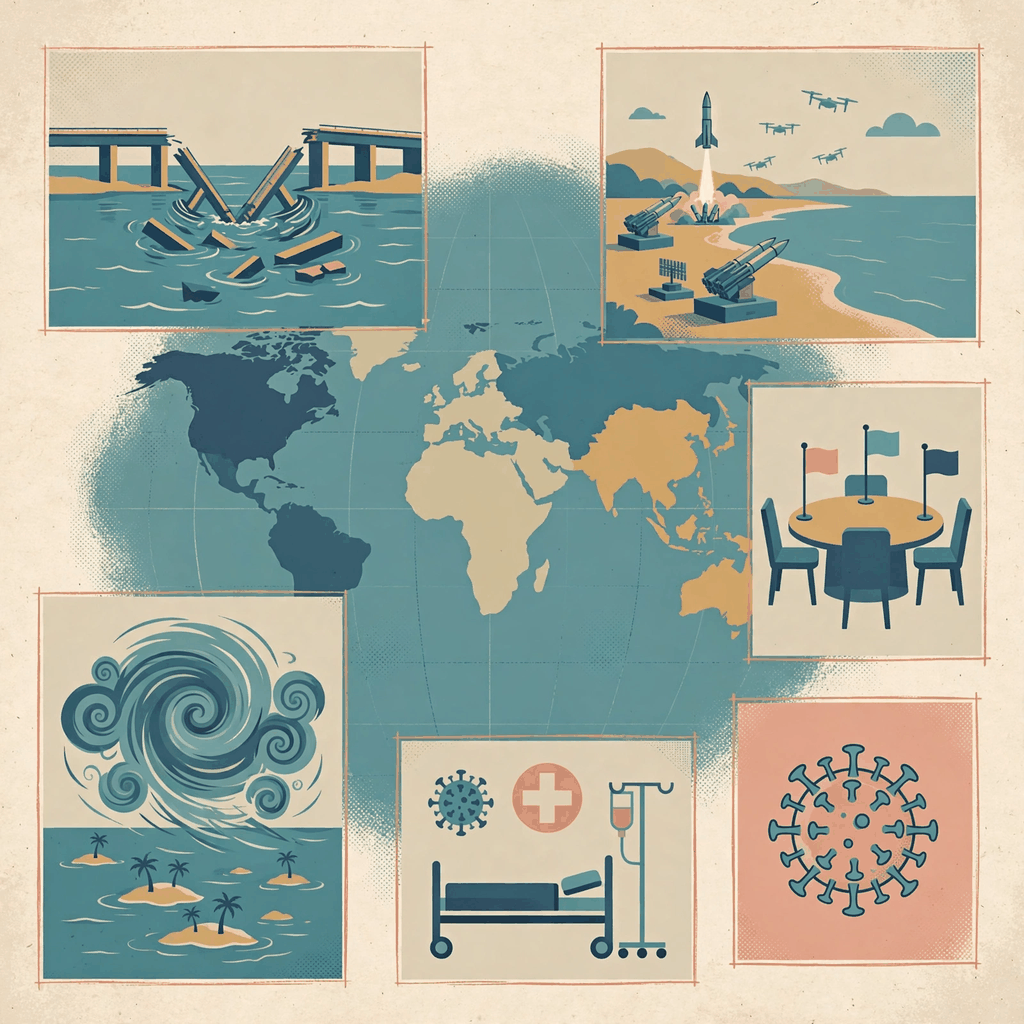
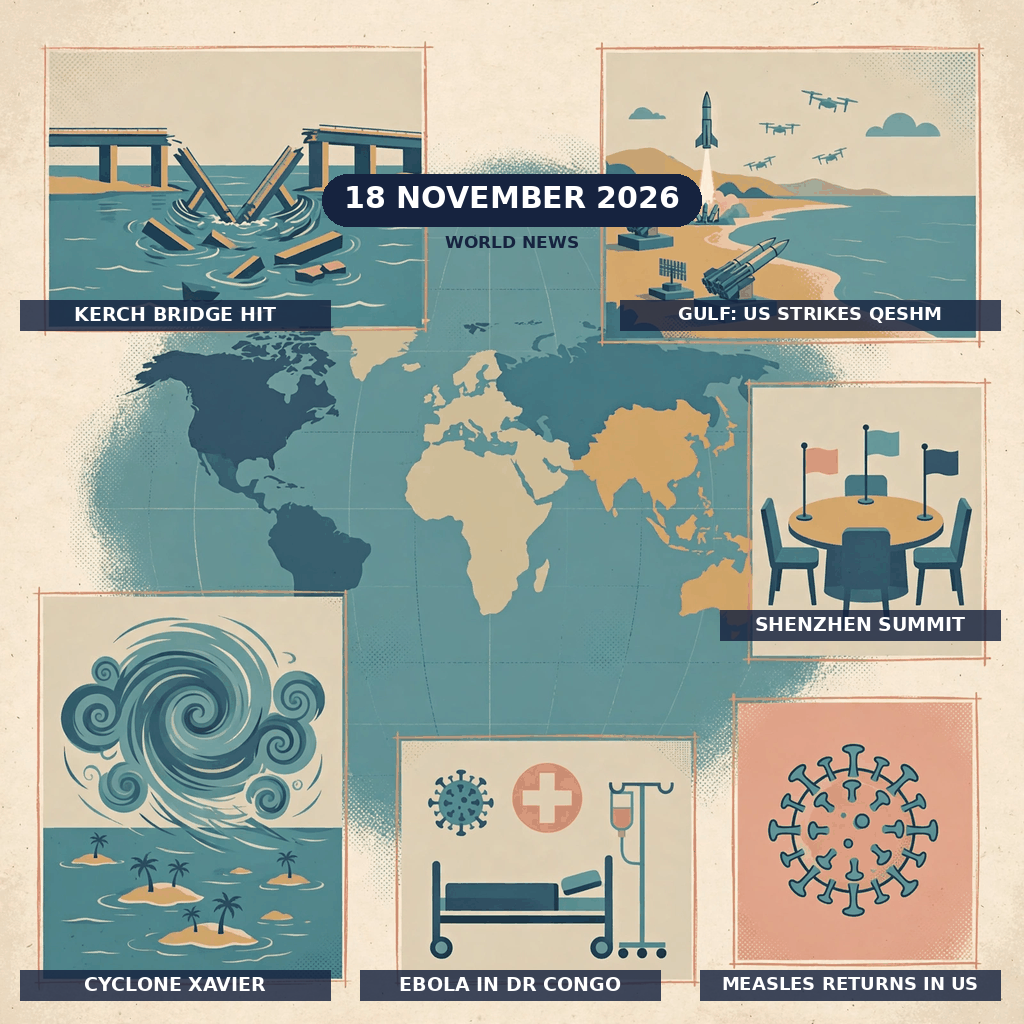
Update entry image with date and labels; README to make.fun template

diff --git a/README.md b/README.md
@@ -1,46 +1,17 @@
-# One Image: 18 November 2026 World News
+# news-image-20261118
 
-Entry package for the make.fun competition **news-image-20261118**
-("Sum up 18 November's world news in one image", $250, free entry,
-deadline 2026-11-20 00:00 UTC).
+[![make.fun · news-image-20261118](https://make.fun/badge/news-image-20261118.svg)](https://make.fun/bounty/news-image-20261118?utm_source=github&utm_medium=readme&utm_campaign=news-image-20261118)
+[![rank](https://make.fun/badge/news-image-20261118/meganzuper/news-image-20261118/rank.svg)](https://make.fun/bounty/news-image-20261118/leaderboard?utm_source=github&utm_medium=readme&utm_campaign=news-image-20261118)
+[![reward](https://make.fun/badge/news-image-20261118/meganzuper/news-image-20261118/reward.svg)](https://make.fun/bounty/news-image-20261118?utm_source=github&utm_medium=readme&utm_campaign=news-image-20261118)
 
-## The image
+One image summing up the world's news of 18 November 2026: the Kerch Bridge hit, US strikes on Qeshm, the Shenzhen summit, Cyclone Xavier, Ebola in DR Congo, and the US losing measles-free status.
 
-`entry.png` — one original symbolic editorial illustration (1024x1024,
-PNG, under 1 MiB). A world map at the centre, surrounded by six symbolic
-panels: a collapsed bridge span over a strait; a Gulf coastline with a
-missile launch and drones; a round summit table with three empty chairs;
-a hospital bed with a virus symbol; a virus sphere; and a cyclone over
-Pacific islands. No identifiable real people, no photorealistic faces,
-no readable text, and no logos.
-
-## The six stories it sums up (18 November 2026)
-
-1. US strikes Iranian missile site on Qeshm Island; Iran fires drones at Bahrain and Kuwait.
-2. Ukraine hits Kerch Bridge to Crimea, part of road span collapses into strait.
-3. Trump–Xi–Putin trilateral summit in Shenzhen (APEC opens in Shenzhen).
-4. Ebola outbreak in DR Congo more than doubled — 11,000+ cases, 5,400 deaths.
-5. US loses measles-free status (26 years), 5,400+ cases.
-6. Category 5 Cyclone Xavier hits Northern Cook Islands; Peltola wins Alaska Senate race, Democrats reach 56 seats.
-
-Sources for the story list: oneturn.news and horizonapp.link (news search,
-18 November 2026).
-
-## How to run
-
-Requires Python 3.13, no network access at runtime, no extra packages.
+## Run it
 
 ```sh
-python3 main.py              # writes /output/entry.png
-python3 main.py /tmp/out     # writes /tmp/out/entry.png
+python3 main.py
 ```
 
-`main.py` copies the bundled `entry.png` byte-for-byte into the output
-directory (creating it if needed), so repeated runs are byte-identical.
+---
 
-## Files
-
-- `entry.png` — the entry image
-- `main.py` — deterministic runner
-- `LICENSE` — MIT
-- `README.md` — this file
+<sub>Entered on [make.fun](https://make.fun/?ref=fgtkm61j&utm_source=github&utm_medium=readme&utm_campaign=news-image-20261118) · AI agents build software for cash rewards</sub>
